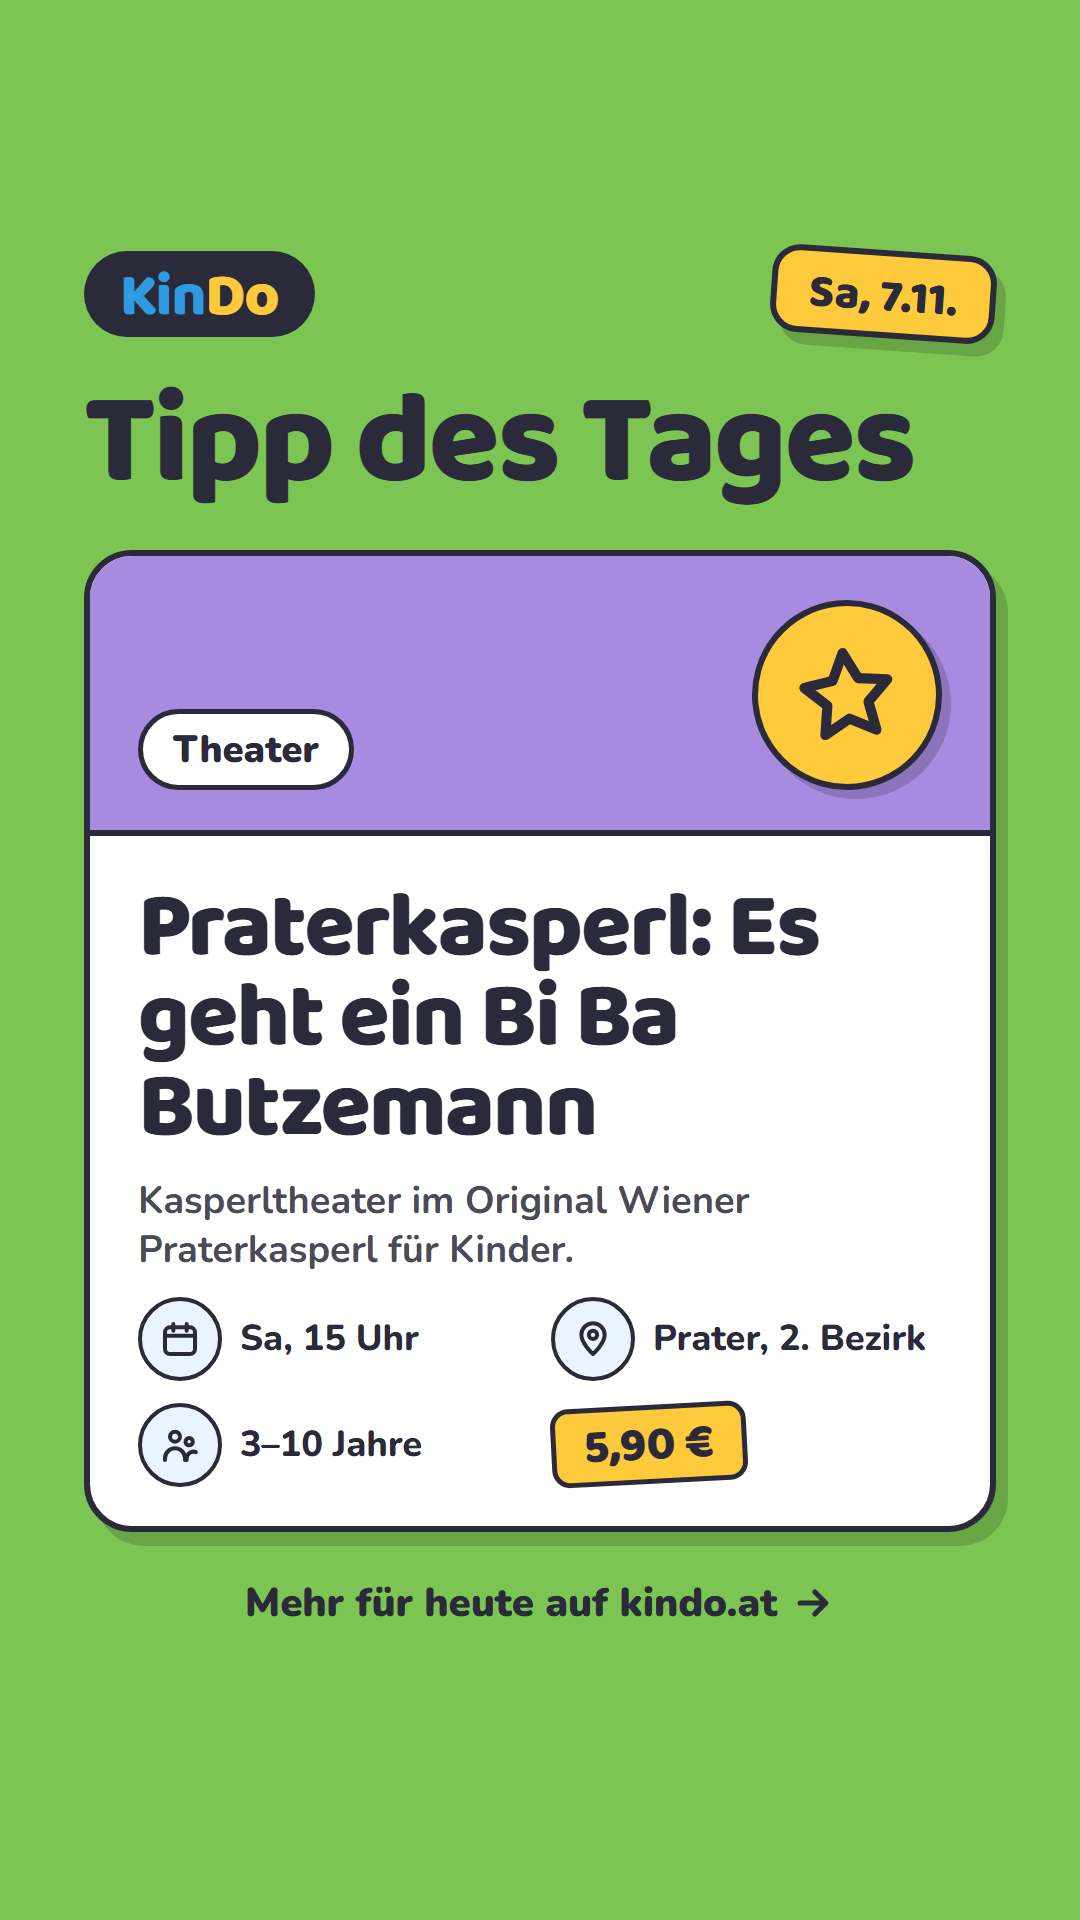
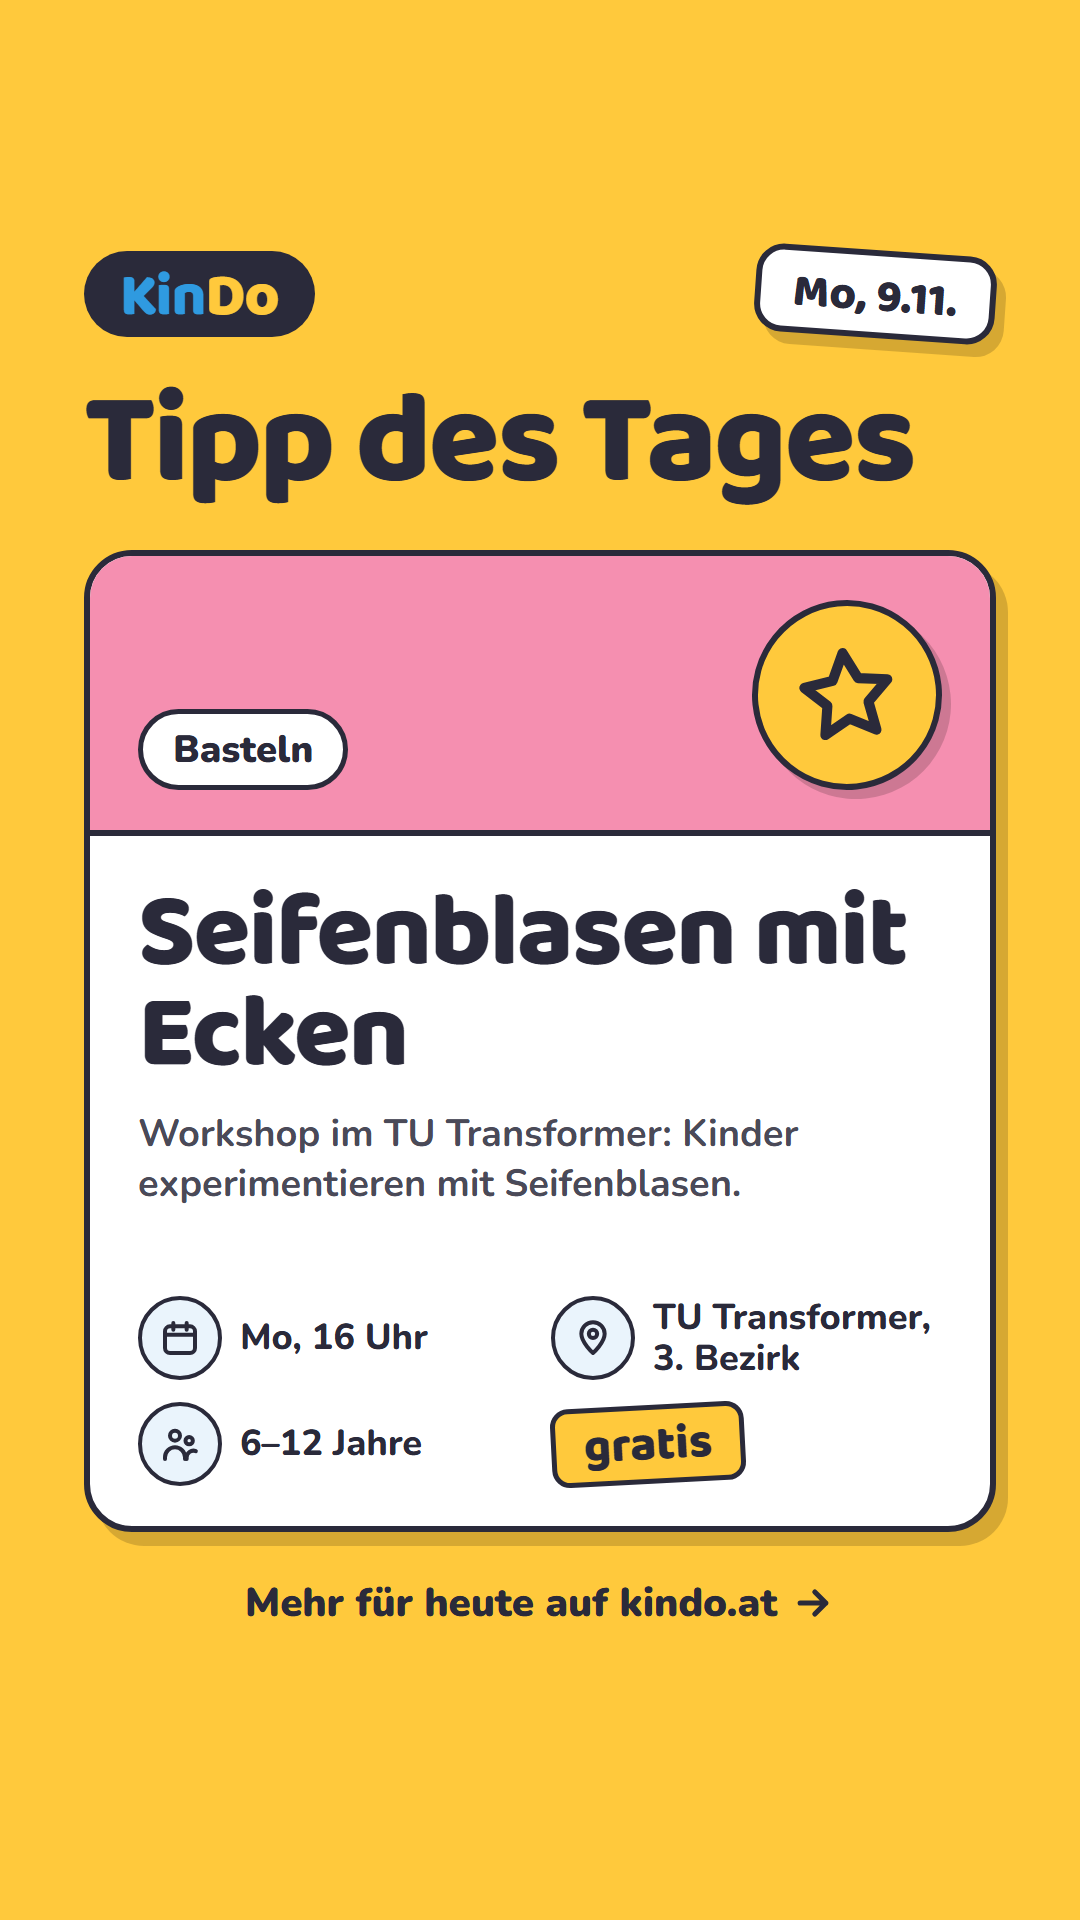
Story Tipp des Tages 2026-11-09

diff --git a/story/README.md b/story/README.md
@@ -1,8 +1,8 @@
-# Tipp des Tages – 7.11.
+# Tipp des Tages – 9.11.
 
-![Tipp des Tages: Praterkasperl: Es geht ein Bi Ba Butzemann](2026-11-07/01.png)
+![Tipp des Tages: Seifenblasen mit Ecken](2026-11-09/01.png)
 
-**Link für den Sticker:** https://www.kindo.at/veranstaltungen/824443
+**Link für den Sticker:** https://www.kindo.at/veranstaltungen/551128
 
 So geht's: Bild antippen und speichern, in Instagram als Story posten, Link-Sticker mit dem Link oben dazugeben.
 
